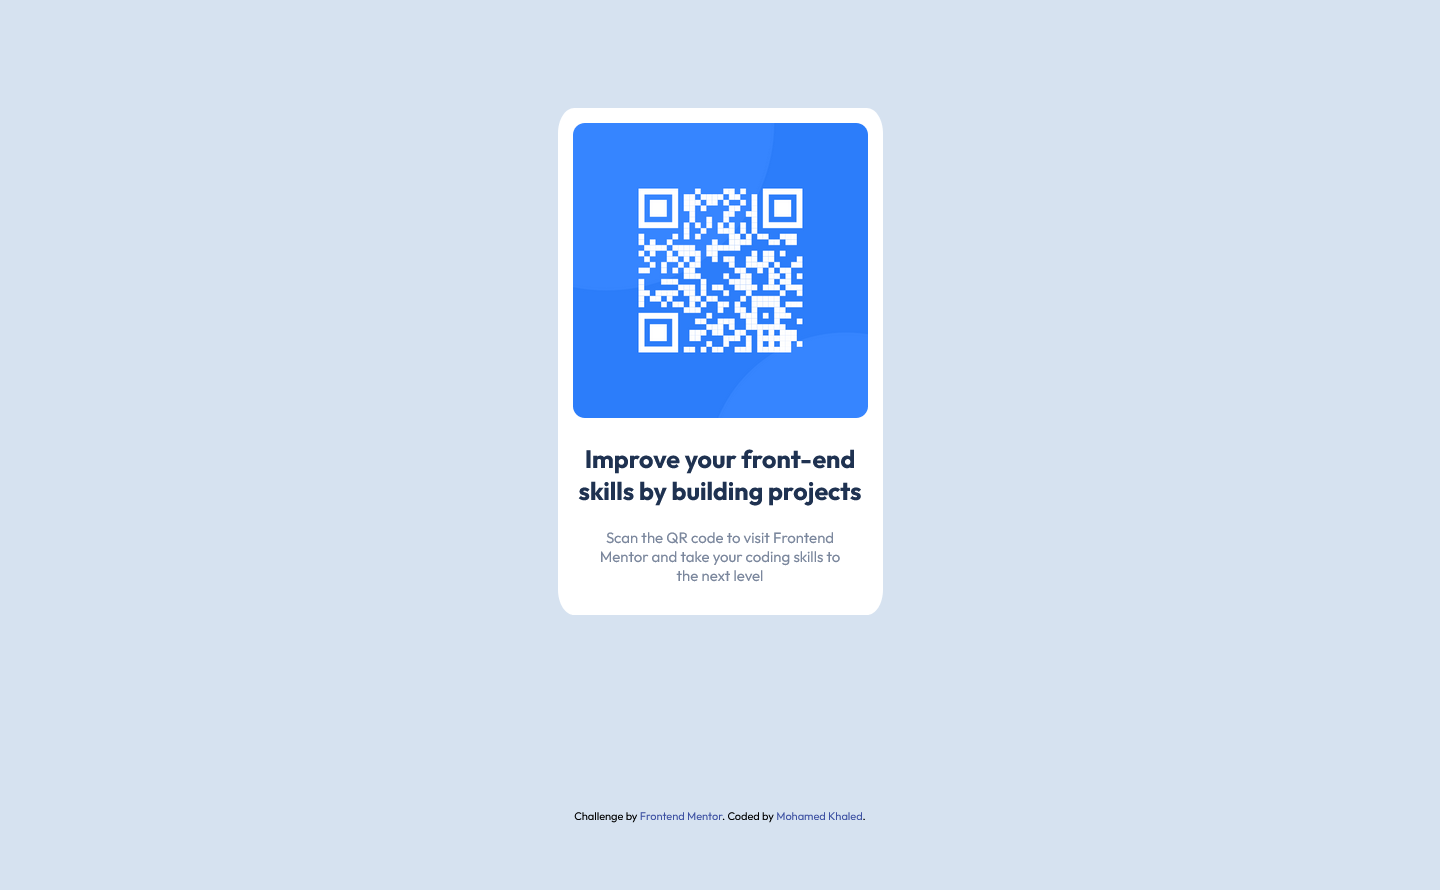
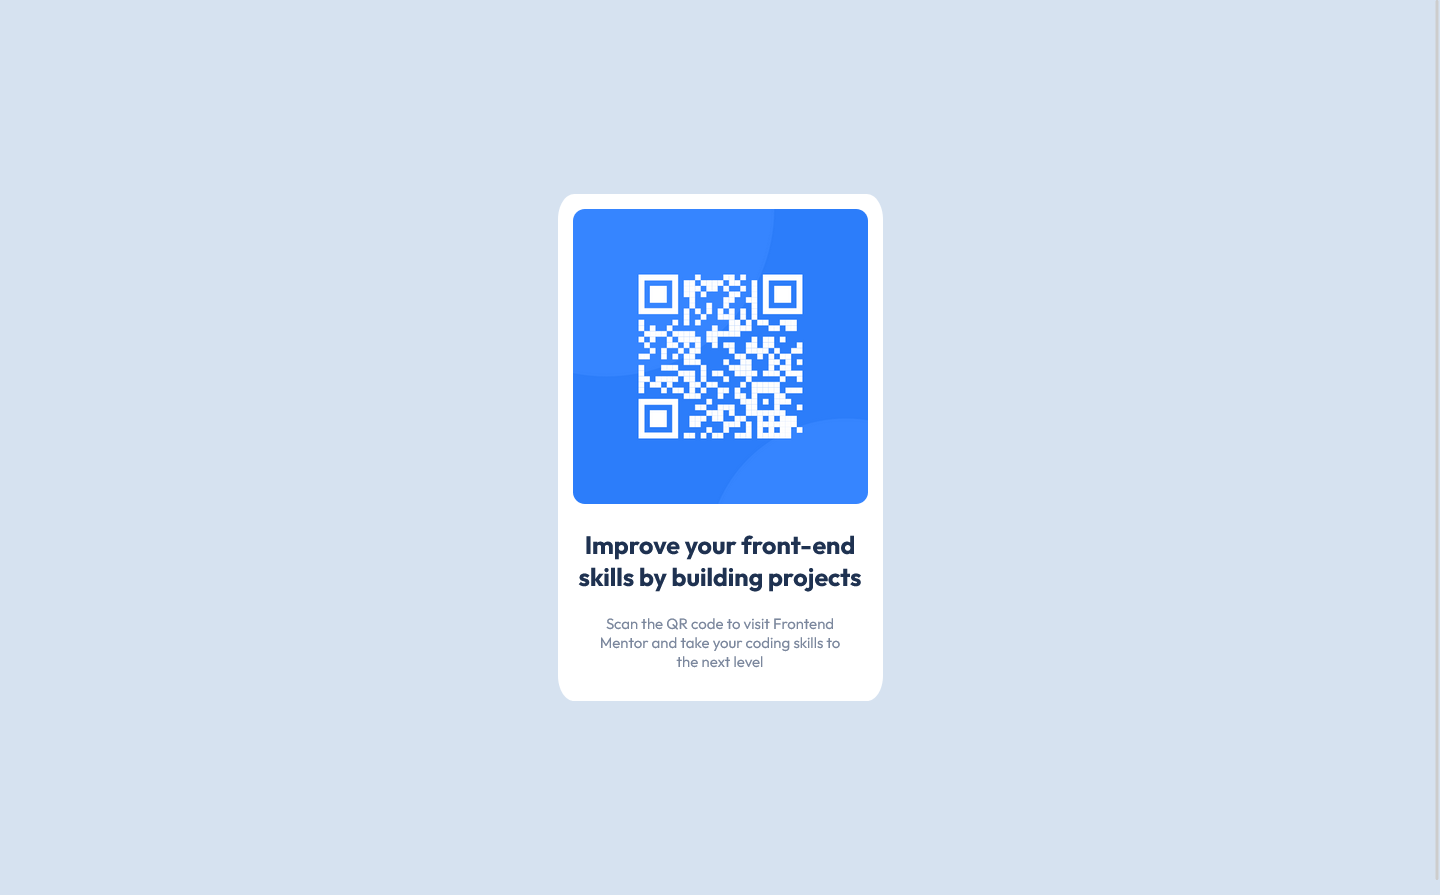
some little tips from Travolgi

Changed region(s): [[0.375, 0.1213, 0.625, 0.7888], [0.4062, 0.9101, 0.5938, 0.9404]]

diff --git a/qr-code-component.css b/qr-code-component.css
@@ -15,6 +15,7 @@
 body {
     font-family: 'Outfit', sans-serif;
     background-color: var(--Light-gray);
+    margin: 0;
 }
 
 a {
@@ -22,10 +23,8 @@ a {
 }
 
 .container {
-    padding-left: 15px;
-    padding-right: 15px;
-    margin-left: auto;
-    margin-right: auto;
+    padding-left: 1rem;
+    padding-right: 1rem;
 }
 
 /* Mobile */
@@ -44,18 +43,10 @@ a {
 
 /* End Global Rules */
 /* Start Main */
-main {
-    padding-top: 100px;
-    padding-bottom: 100px;
-    height: 90vh;
-}
-
-/* Mobile */
-@media (max-width: 375px) {
-    main {
-        padding-top: 75px;
-        padding-bottom: 75px;
-    }
+main{
+    min-height: 100vh;
+    display: grid;
+    place-items: center;
 }
 
 main .container {
@@ -66,7 +57,7 @@ main .container {
 main .container .box {
     width: 325px;
     text-align: center;
-    padding: 15px;
+    padding: 0.938rem;
     border-radius: 5%;
     background-color: var(--White);
 }
@@ -77,15 +68,15 @@ main .container .box img {
 }
 
 main .container .box h2 {
-    padding: 0 5px;
+    padding: 0 0.313rem;
     color: var(--Dark-blue);
-    font-size: 25px;
+    font-size: 1.563rem;
 }
 
 main .container .box p {
-    padding: 0 15px;
+    padding: 0 1rem;
     color: var(--Grayish-blue);
-    font-size: 15px;
+    font-size: 0.938rem;
 }
 
 /* End Main */

diff --git a/index.html b/index.html
@@ -32,7 +32,7 @@
   <main>
     <div class="container">
       <div class="box">
-        <img src="images/image-qr-code.png" alt="">
+        <img src="images/image-qr-code.png" alt=" QR Code Image">
         <h2>Improve your front-end skills by building projects</h2>
         <p>
           Scan the QR code to visit Frontend Mentor and take your coding skills to the next level

diff --git a/README.md b/README.md
@@ -32,6 +32,7 @@ A perfect first challenge if you're new to HTML and CSS. The card layout doesn't
 - Semantic HTML5 markup
 - CSS custom properties
 - Flexbox
+- CSS Grid
 
 ## Author
 
